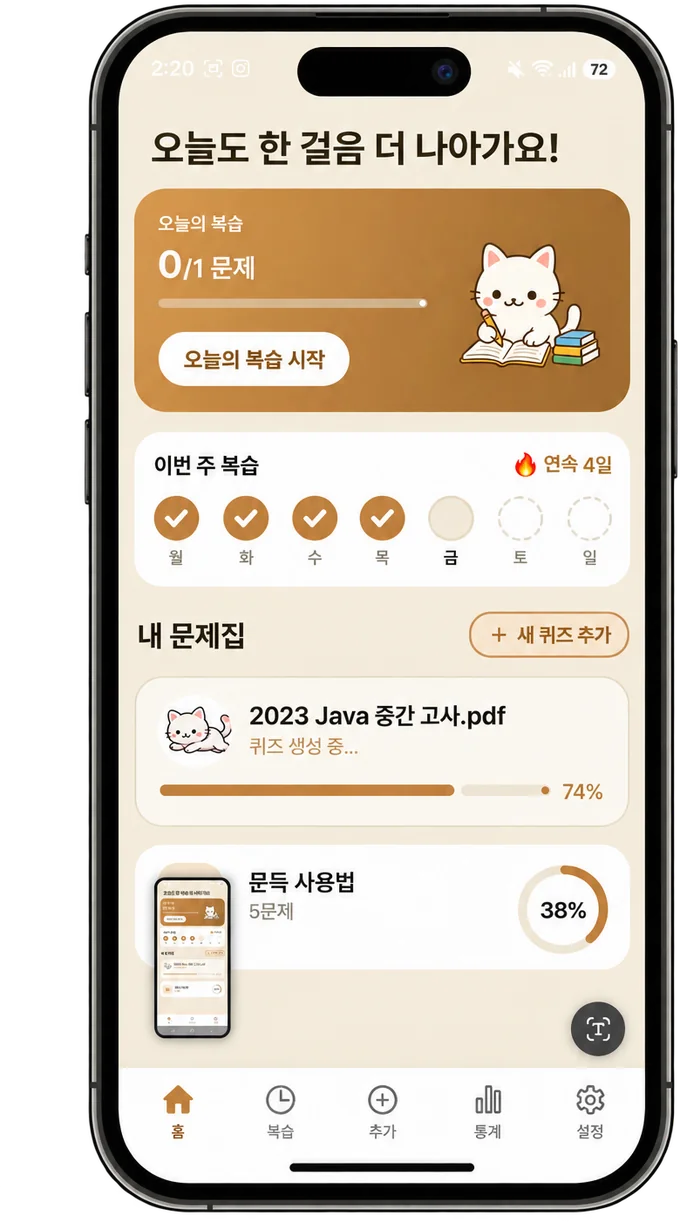
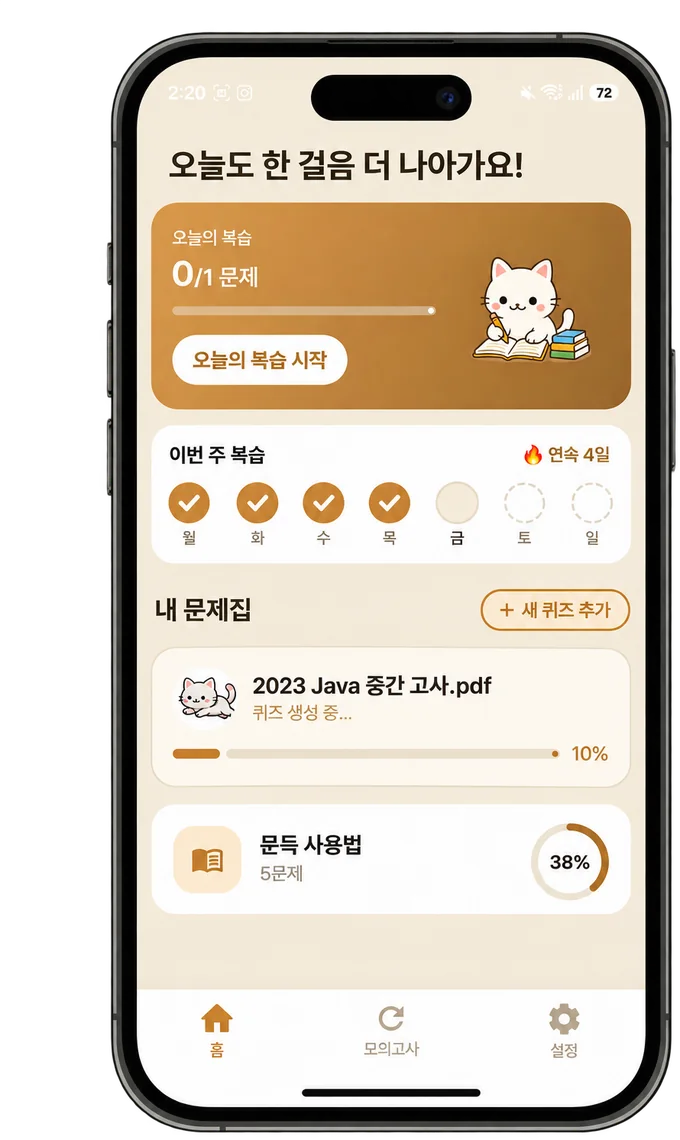
style: STEP 2 홈 스크린샷 교체

diff --git a/index.html b/index.html
@@ -95,7 +95,7 @@
             <h3>퀴즈는 문득이 만들어요</h3>
             <p>자료마다 나만의 문제집이 생겨요. 문제 만드느라 애쓸 필요 없어요.</p>
           </div>
-          <img class="step-shot" src="assets/shot-home.webp" alt="자료마다 자동 생성된 나만의 문제집이 보이는 홈 화면" width="340" height="611" loading="lazy">
+          <img class="step-shot" src="assets/shot-home.webp" alt="자료마다 자동 생성된 나만의 문제집이 보이는 홈 화면" width="340" height="570" loading="lazy">
         </div>
 
         <div class="step reveal">
